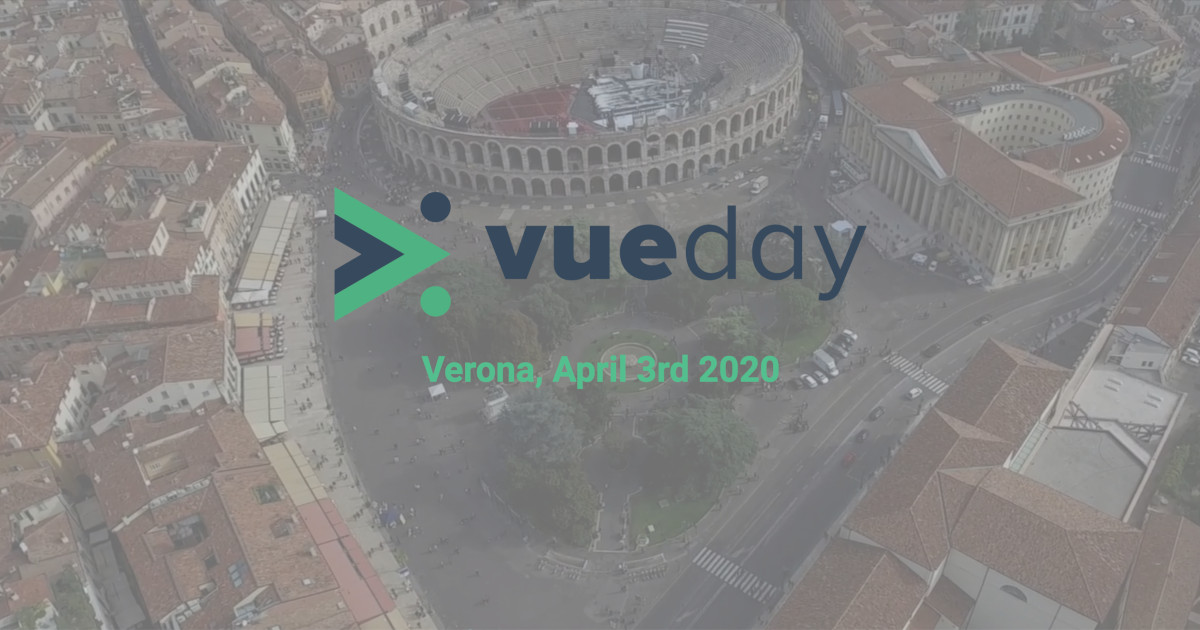
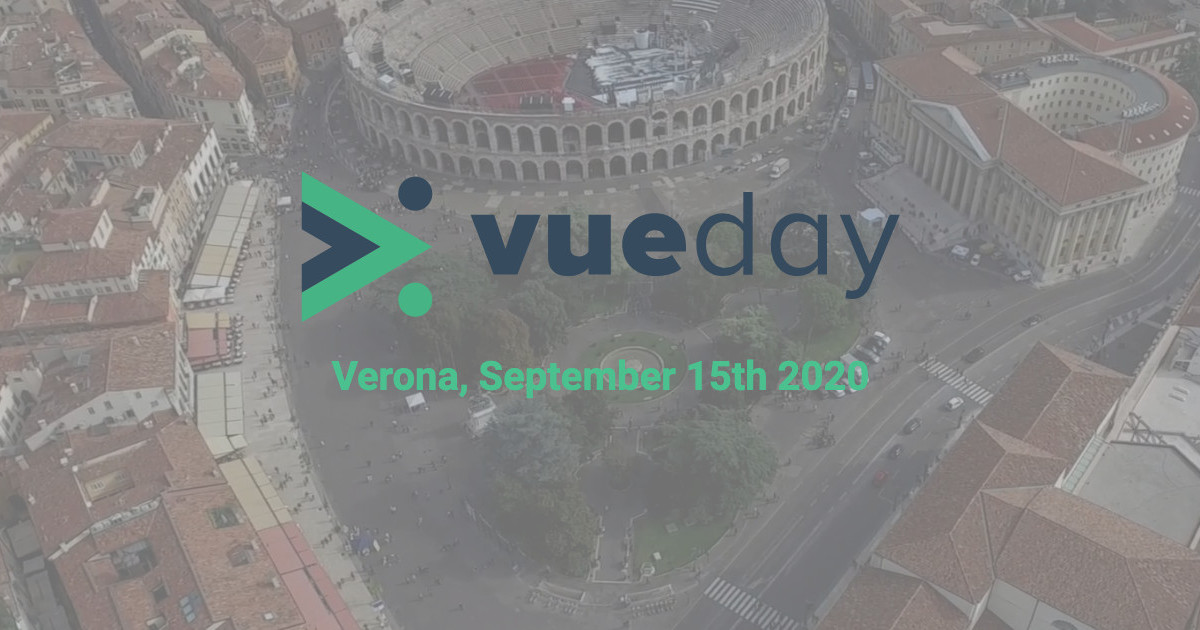
Publish new date

diff --git a/schedule.html b/schedule.html
@@ -4,7 +4,7 @@ title: Schedule
 
 <div class="limit limit--top-margin">
 
-  {% include schedule/intro.html date='TBD' %}
+  {% include schedule/intro.html date='September 15th' %}
 
   <div class="schedule" data-dates="4-12">
     <table class="schedule__table">
